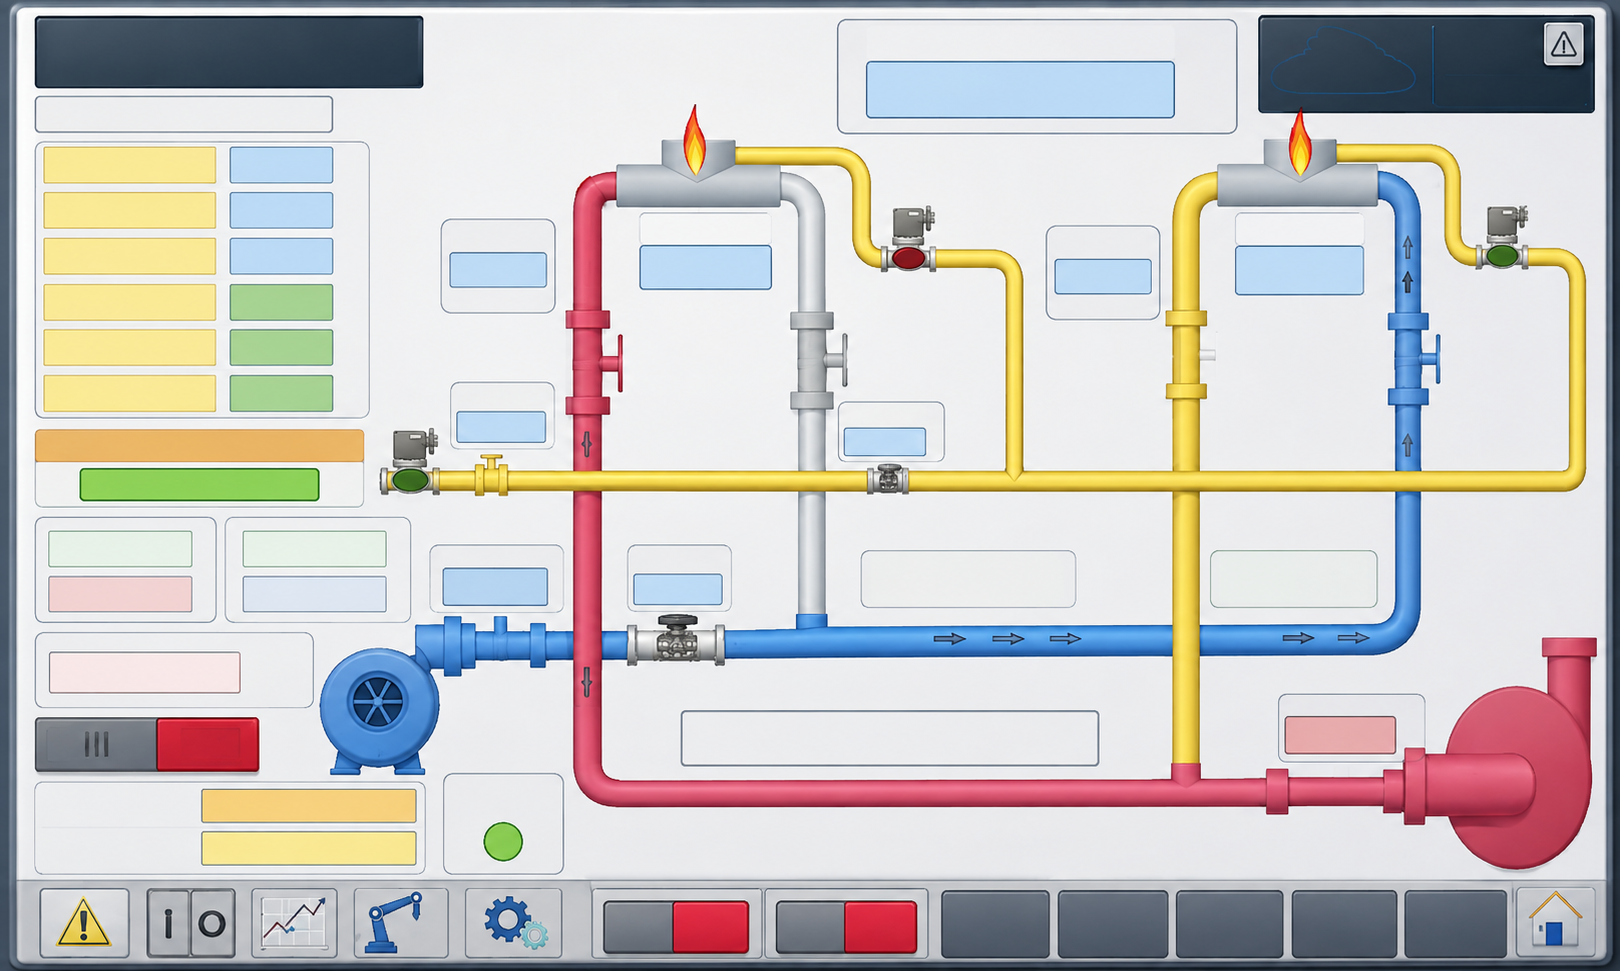
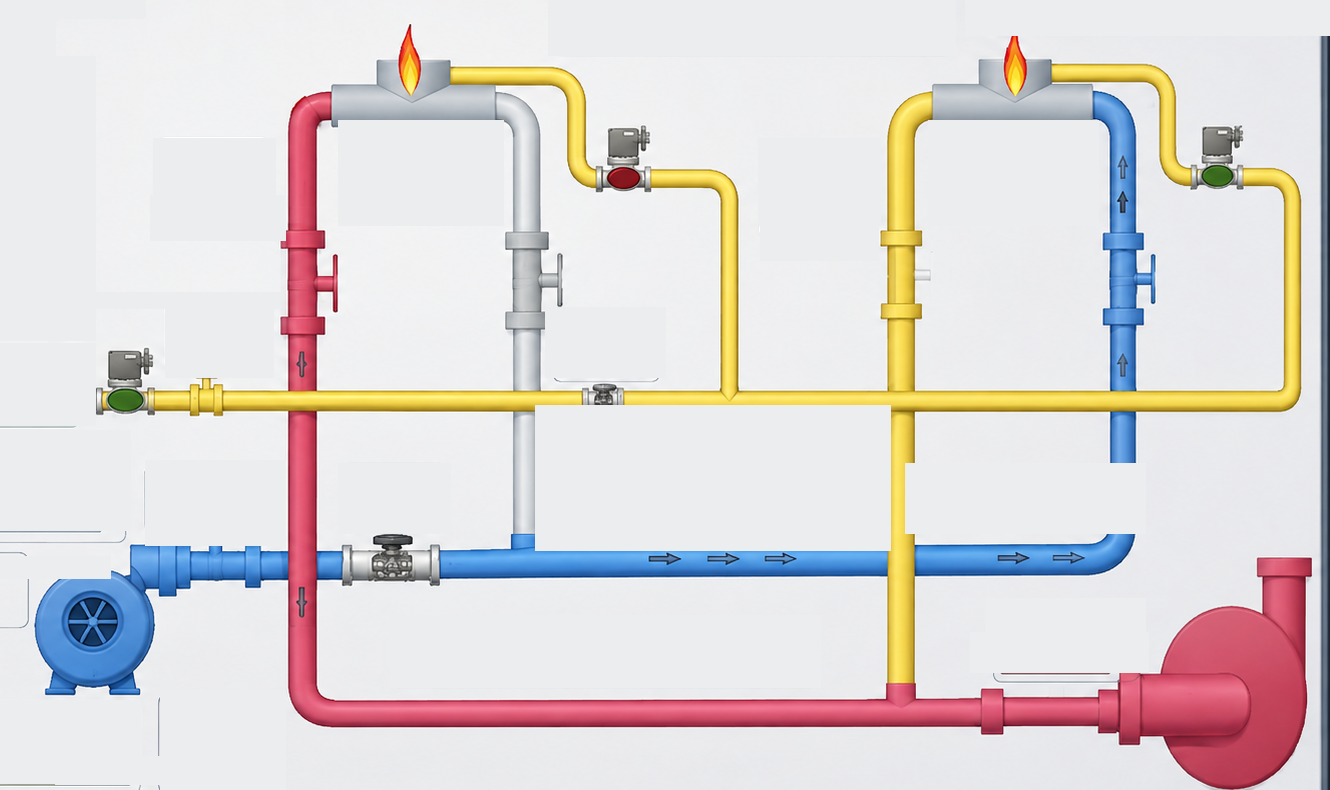
Rejen: boru semasi gorselini borular/fan gorunecek sekilde yeniden kirp
Arka plan gorseli (rejen-bg.png) bos HMI panel alanlarini kaldiracak
sekilde sikica kirpildi (fan artik tam govdesiyle gorunuyor), kalan
hayalet panel cerceveleri temizlendi ve badge konumlari yeni kirpima
gore yeniden hesaplandi.

diff --git a/public/rejen.html b/public/rejen.html
@@ -70,15 +70,56 @@
   main { max-width: 1400px; margin: 0 auto; padding: 16px 24px 40px; }
   #status { color: var(--text-muted); font-size: 12px; margin-bottom: 10px; }
 
-  .stage-wrap { position: relative; width: 100%; aspect-ratio: 1620 / 971; background: var(--stage-bg) url('/rejen-bg.png') center / cover no-repeat; border: 1px solid var(--border); border-radius: 12px; overflow: hidden; }
+  /* Ust ozet kartlari: gaz sayaci / toplam gaz / hesaplanan debi - diyagramin
+     disinda, normal akista (absolute konumlandirma degil) - icerik ne kadar
+     genis olursa olsun tasma/ust uste binme riski olmaz. */
+  .top-stats { display: flex; gap: 14px; flex-wrap: wrap; margin-bottom: 16px; }
+  .stat-card { position: relative; background: var(--surface); border: 1px solid var(--border); border-radius: 12px; padding: 14px 22px; min-width: 190px; text-align: center; box-shadow: 0 1px 4px rgba(0,0,0,0.08); }
+  .stat-card.tone-green { background: color-mix(in srgb, #3fae63 16%, var(--surface)); }
+  .stat-card.tone-blue { background: color-mix(in srgb, var(--series) 14%, var(--surface)); }
+  .stat-card.tone-amber { background: color-mix(in srgb, #d99a2b 16%, var(--surface)); }
+  .stat-card .label { display: block; font-size: 13px; font-weight: 600; color: var(--text-secondary); margin-bottom: 6px; }
+  .stat-card .value { display: block; font-size: 24px; font-weight: 700; font-variant-numeric: tabular-nums; }
+  .stat-card .flame { display: block; font-size: 12px; color: var(--text-muted); margin-top: 4px; }
+  .stat-card .caption { display: block; font-size: 11px; color: var(--text-muted); margin-top: 2px; }
+  .stat-card.alert .value { color: var(--alarm); }
+  .stat-card.alert .value::after { content: " ⚠"; }
 
-  .badge { position: absolute; transform: translate(-50%, -50%); background: var(--badge-bg); color: var(--badge-text); border-radius: 6px; padding: 4px 8px; font-size: clamp(9px, 1.1vw, 13px); text-align: center; box-shadow: 0 1px 3px rgba(0,0,0,0.25); line-height: 1.25; white-space: nowrap; }
+  /* Diyagram (borulu sema) + sol taraftaki gruplu bilgi panelleri */
+  .dashboard-layout { display: flex; gap: 20px; align-items: flex-start; flex-wrap: wrap; }
+  .side-panels { display: flex; flex-direction: column; gap: 14px; width: 260px; flex: 0 0 260px; }
+  .stage-wrap { position: relative; flex: 1 1 420px; min-width: 320px; aspect-ratio: 1330 / 790; background: var(--stage-bg) url('/rejen-bg.png') center / cover no-repeat; border: 1px solid var(--border); border-radius: 12px; overflow: hidden; }
+
+  .panel-card { background: var(--surface); border: 1px solid var(--border); border-radius: 10px; padding: 14px; }
+  .panel-card h3 { margin: 0 0 10px; font-size: 11px; font-weight: 700; text-transform: uppercase; letter-spacing: 0.03em; color: var(--text-secondary); }
+
+  /* .panel-row: etiket (sol, renkli pill) + deger (sag, kutu) yan yana - Sicaklik
+     Degerleri / Limit Bilgileri gibi coklu-satirli panellerde kullanilir. */
+  .panel-row { position: relative; display: flex; align-items: center; gap: 8px; margin-bottom: 8px; }
+  .panel-row:last-child { margin-bottom: 0; }
+  .panel-row .label { flex: 0 0 auto; background: #f3d67a; color: #4a3a05; font-weight: 600; font-size: 12px; padding: 6px 10px; border-radius: 8px; white-space: nowrap; }
+  .panel-row .value { flex: 1 1 auto; background: var(--badge-bg); color: var(--badge-text); font-weight: 700; font-size: 13px; padding: 6px 10px; border-radius: 8px; text-align: center; font-variant-numeric: tabular-nums; }
+  .panel-row.alert .value { color: var(--alarm); }
+  .panel-row.alert .value::after { content: " ⚠"; }
+
+  /* .panel-block: etiket ustte (duz metin) + tek buyuk deger kutusu altta -
+     Yanma Kontrolu / Basinc Bilgileri gibi tek-degerli panellerde kullanilir. */
+  .panel-block { position: relative; }
+  .panel-block .label { display: block; font-size: 12px; color: var(--text-secondary); margin-bottom: 6px; }
+  .panel-block .value { display: block; background: var(--badge-bg); color: var(--badge-text); font-weight: 700; font-size: 20px; text-align: center; padding: 10px; border-radius: 8px; font-variant-numeric: tabular-nums; }
+  .panel-block.tone-green .value { background: var(--badge-bg-set); }
+  .panel-block.alert .value { color: var(--alarm); }
+  .panel-block.alert .value::after { content: " ⚠"; }
+
+  /* Diyagram uzerine sabit konumla yerlestirilen kucuk kutucuklar (borularin
+     tam uzerindeki olcum noktalari) - sadece gercekten o hatta ait olanlar. */
+  .badge { position: absolute; transform: translate(-50%, -50%); min-width: 108px; background: var(--surface); border: 1px solid var(--border); color: var(--badge-text); border-radius: 10px; padding: 9px 16px; font-size: clamp(13px, 1.5vw, 17px); text-align: center; box-shadow: 0 2px 6px rgba(0,0,0,0.18); line-height: 1.35; white-space: nowrap; }
   .badge.set { background: var(--badge-bg-set); }
-  .badge .label { display: block; font-size: 0.8em; opacity: 0.75; }
-  .badge .value { display: block; font-weight: 700; font-variant-numeric: tabular-nums; }
+  .badge .label { display: block; font-size: 0.72em; font-weight: 500; color: var(--text-secondary); margin-bottom: 2px; }
+  .badge .value { display: block; font-weight: 700; font-size: 1.15em; font-variant-numeric: tabular-nums; }
   .badge.alert .value { color: var(--alarm); }
   .badge.alert .value::after { content: " ⚠"; }
-  .badge .flame { display: block; font-size: 0.75em; opacity: 0.8; margin-top: 1px; }
+  .badge .flame { display: block; font-size: 0.7em; opacity: 0.8; margin-top: 2px; }
 
   .hist-btn { position: absolute; top: -8px; right: -8px; width: 18px; height: 18px; border-radius: 50%; border: none; background: var(--series); color: #fff; font-size: 10px; line-height: 18px; padding: 0; cursor: pointer; box-shadow: 0 1px 3px rgba(0,0,0,0.3); }
   .hist-btn:hover { filter: brightness(1.12); }
@@ -88,7 +129,7 @@
   .legend i { width: 14px; height: 6px; border-radius: 3px; display: inline-block; }
 
   @media (max-width: 700px) {
-    .badge { font-size: 9px; padding: 3px 5px; }
+    .badge { font-size: 11px; padding: 6px 10px; min-width: 84px; }
   }
 
   /* Gecmis/grafik modali */
@@ -167,27 +208,46 @@
     </nav>
   </header>
   <main>
-    <div class="stage-wrap" id="stage">
-      <div class="badge" id="badge-gazSayaci" style="left:64.32%; top:7.93%;"></div>
+    <div class="top-stats">
+      <div class="stat-card tone-green" id="badge-gazSayaci"></div>
+      <div class="stat-card tone-blue" id="badge-gazToplam"></div>
+      <div class="stat-card tone-amber" id="badge-gazDebiHesap"></div>
+    </div>
 
-      <div class="badge" id="badge-tavan1" style="left:18.02%; top:17.30%;"></div>
-      <div class="badge" id="badge-tavan2" style="left:18.02%; top:22.04%;"></div>
-      <div class="badge" id="badge-maden" style="left:18.02%; top:26.78%;"></div>
+    <div class="dashboard-layout">
+      <aside class="side-panels">
+        <div class="panel-card">
+          <h3>Sıcaklık Değerleri</h3>
+          <div class="panel-row" id="badge-tavan1"></div>
+          <div class="panel-row" id="badge-tavan2"></div>
+          <div class="panel-row" id="badge-maden"></div>
+        </div>
+        <div class="panel-card">
+          <h3>Yanma Kontrolü</h3>
+          <div class="panel-block tone-green" id="badge-bacaKlape"></div>
+        </div>
+        <div class="panel-card">
+          <h3>Basınç Bilgileri</h3>
+          <div class="panel-block" id="badge-firinBasinc"></div>
+        </div>
+        <div class="panel-card">
+          <h3>Limit Bilgileri</h3>
+          <div class="panel-row" id="badge-bacaUst"></div>
+          <div class="panel-row" id="badge-bacaAlt"></div>
+        </div>
+      </aside>
 
-      <div class="badge" id="badge-egzoz1" style="left:30.71%; top:27.79%;"></div>
-      <div class="badge" id="badge-egzoz2" style="left:66.34%; top:27.36%;"></div>
+      <div class="stage-wrap" id="stage">
+        <div class="badge" id="badge-egzoz1" style="left:15.98%; top:24.03%;"></div>
+        <div class="badge" id="badge-egzoz2" style="left:59.38%; top:23.51%;"></div>
 
-      <div class="badge" id="badge-gazKlape" style="left:31.02%; top:43.96%;"></div>
-      <div class="badge" id="badge-havaKlape" style="left:30.46%; top:60.54%;"></div>
-      <div class="badge" id="badge-egzozKlape" style="left:82.57%; top:75.65%;"></div>
+        <div class="badge" id="badge-gazKlape" style="left:16.35%; top:43.91%;"></div>
+        <div class="badge" id="badge-havaKlape" style="left:30.08%; top:58.23%;"></div>
+        <div class="badge" id="badge-egzozKlape" style="left:79.14%; top:82.86%;"></div>
 
-      <div class="badge" id="badge-firinBasinc" style="left:19.41%; top:61.20%;"></div>
-      <div class="badge" id="badge-bacaKlape" style="left:12.87%; top:49.97%;"></div>
-      <div class="badge" id="badge-farkBasinc1" style="left:59.42%; top:59.32%;"></div>
-      <div class="badge" id="badge-farkBasinc2" style="left:80.16%; top:59.38%;"></div>
-
-      <div class="badge" id="badge-bacaUst" style="left:19.01%; top:82.94%;"></div>
-      <div class="badge" id="badge-bacaAlt" style="left:19.01%; top:87.33%;"></div>
+        <div class="badge" id="badge-farkBasinc1" style="left:50.95%; top:62.78%;"></div>
+        <div class="badge" id="badge-farkBasinc2" style="left:76.21%; top:62.86%;"></div>
+      </div>
     </div>
 
     <div class="legend">
@@ -270,14 +330,17 @@ const TAGS = [
   { key: "egzozKlape", label: "Egzoz Klape", tag: "Genel Datatlar.EgzozDamperPozKontrol_PV", unit: "%" },
   { key: "bacaUst", label: "Baca Ust Limit", tag: "Genel Datatlar.BacaDamperÜstTolerans_PV", unit: "%" },
   { key: "bacaAlt", label: "Baca Alt Limit", tag: "Genel Datatlar.BacaDamperAltTolerans_PV", unit: "%" },
-  { key: "gazSayaci", label: "Dogal Gaz Sayaci", tag: "TüketilenGazMiktarı", unit: " m³", flameTags: ["2B_AnaAlev"] },
+  { key: "gazSayaci", label: "Dogal Gaz Sayaci", tag: "TüketilenGazMiktarı", unit: " m³", flameTags: ["2B_AnaAlev"], caption: "Anlık" },
+  { key: "gazToplam", label: "Toplam Gaz (Kumulatif)", tag: "Kalıcı_Datalar.GazToplamMetreKüp", unit: " m³" },
+  { key: "gazDebiHesap", label: "1 Saat / 4 (Hesap)", tag: "Hesaplanan.GazSaatlikDebi", unit: "", caption: "10 dk bazlı, gaz_sayaci_okumalar_formul.xlsx" },
 ];
 
 for (const t of TAGS) {
   const el = document.getElementById(`badge-${t.key}`);
   if (!el) continue;
   const flameSpan = t.flameTags ? `<span class="flame">-</span>` : "";
-  el.innerHTML = `<span class="label">${t.label}</span><span class="value">-</span>${flameSpan}`;
+  const captionSpan = t.caption ? `<span class="caption">${t.caption}</span>` : "";
+  el.innerHTML = `<span class="label">${t.label}</span><span class="value">-</span>${flameSpan}${captionSpan}`;
 
   const histBtn = document.createElement("button");
   histBtn.type = "button";
